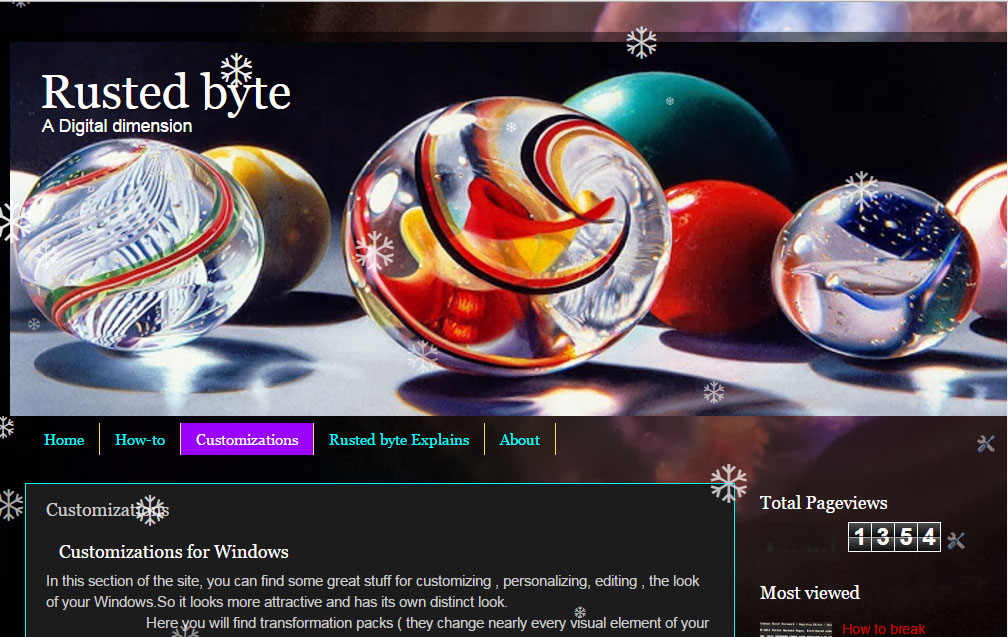
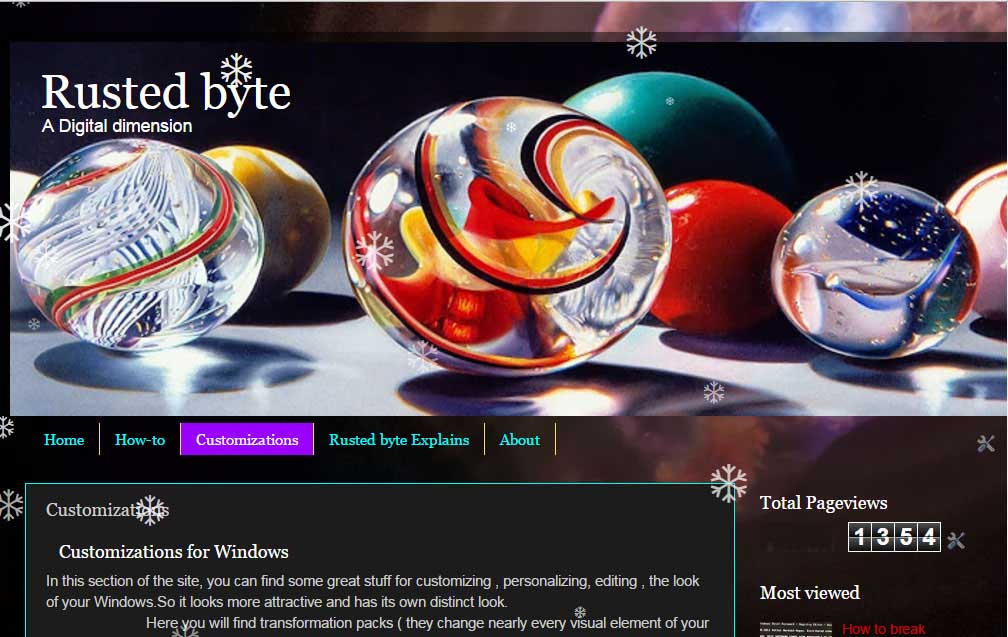
Image and CSS delivery Optimization
Images were losslessly compressed to improve download speeds.
CSS files were included at the end to avoid render blocking of above the
fold content.

diff --git a/index.html b/index.html
@@ -6,13 +6,10 @@
   <meta name="description" content="The official website of Web Designer and Developer, Mustaghees Butt. From Frontend to Backend development, all services are available." />
   <meta name="author" content="Mustaghees Butt" />
   
-  <link type="text/css" rel="stylesheet" href="styles/style.css" />
-  <link type="text/css" rel="stylesheet" href="styles/responsive.css" />
-  <link href='https://fonts.googleapis.com/css?family=Roboto:400,300italic,300,700,700italic' rel='stylesheet' type='text/css'>
-  <link rel="stylesheet" href="https://maxcdn.bootstrapcdn.com/font-awesome/4.4.0/css/font-awesome.min.css">
   <link rel="icon" 
       type="image/png" 
       href="images/favicon.png">
+  
  </head>
  
  <body>
@@ -355,11 +352,19 @@
 	ga('send', 'pageview');
 
 	</script>
+  
+  <!-- CSS AND JS WERE MOVED HERE FOR SPEED OPTIMIZATION -->
+  <link type="text/css" rel="stylesheet" href="styles/style.css" />
+  <link type="text/css" rel="stylesheet" href="styles/responsive.css" />
+  <link href='https://fonts.googleapis.com/css?family=Roboto:400,300italic,300,700,700italic' rel='stylesheet' type='text/css'>
+  <link rel="stylesheet" href="https://maxcdn.bootstrapcdn.com/font-awesome/4.4.0/css/font-awesome.min.css">
+  
   <script src="https://cdnjs.cloudflare.com/ajax/libs/d3/3.5.6/d3.min.js"></script>
   <script src="https://code.jquery.com/jquery-2.1.4.min.js"></script>
   <script src="scripts/jquery-ui.min.js"></script>
   <script src="scripts/script.js"></script>
   <script src="scripts/graph.js"></script>
+  
  </body>
  
 </html>

diff --git a/styles/style.css b/styles/style.css
@@ -251,6 +251,9 @@ div.view span:hover {
 	margin-right: 5px;
 }
 /* CLEAR FIX FOR FLOATING ITEMS*/
+#portfolio main .development {
+	clear: both;
+}
 #portfolio main .design:after {
 	visibility: hidden;
 	display: block;
